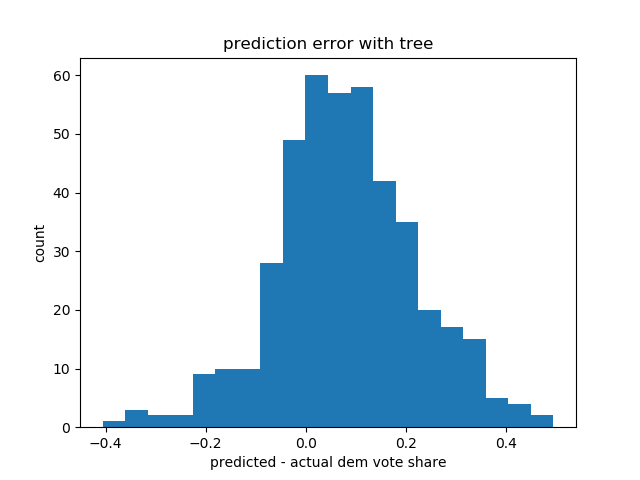
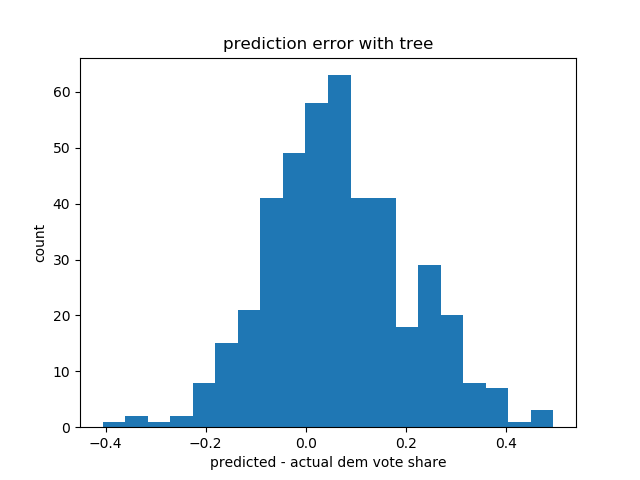
election simulation

diff --git a/python/tree_forest.py b/python/tree_forest.py
@@ -69,7 +69,7 @@ for row in csv_reader:
 
 clf_tree = tree.DecisionTreeClassifier()
 clf_tree.fit(train, train_votes)
-prediction_tree = clf_tree.predict(test)
+prediction_tree = np.asarray(clf_tree.predict(test), dtype = float)
 error_tree = (np.absolute((np.asarray(prediction_tree, dtype=float) - np.asarray(np.array(test_votes), dtype = float)))).mean()
 append_error(np.asarray(prediction_tree, dtype = float), county_state, np.asarray(np.array(test_votes), dtype = float))
 visualize_error(county_state, "prediction error with tree", "../output/tree_error.png")
@@ -77,7 +77,7 @@ generate_results(county_state, "../data/tree_predictions.csv")
 
 clf_forest = RandomForestClassifier()
 clf_forest.fit(train, train_votes)
-prediction_forest = clf_forest.predict(test)
+prediction_forest = np.asarray(clf_forest.predict(test), dtype = float)
 error_forest = (np.absolute((np.asarray(prediction_forest, dtype=float) - np.asarray(np.array(test_votes), dtype = float)))).mean()
 append_error(np.asarray(prediction_forest, dtype = float), county_state, np.asarray(np.array(test_votes), dtype = float))
 visualize_error(county_state, "prediction error with random forest", "../output/forest_error.png")

diff --git a/python/simulate_election.py b/python/simulate_election.py
@@ -1,4 +1,13 @@
 import pandas as pd
 
-def load_data(table):
-    
+def get_state_winner(table, path):
+    data =  pd.DataFrame(pd.read_csv(table))
+    data['dem_votes'] = data['predicted_votes'] * data['total_votes']
+    data = data.drop(columns=['predicted_votes', 'county'])
+    data = data.groupby(['state']).sum()
+    data['dem_share'] = data['dem_votes'] / data['total_votes']
+    data.to_csv(path)
+
+if __name__ == "__main__":
+    get_state_winner("../data/tree_predictions.csv", "../data/tree_winners.csv")
+    get_state_winner("../data/forest_predictions.csv", "../data/forest_winners.csv")
